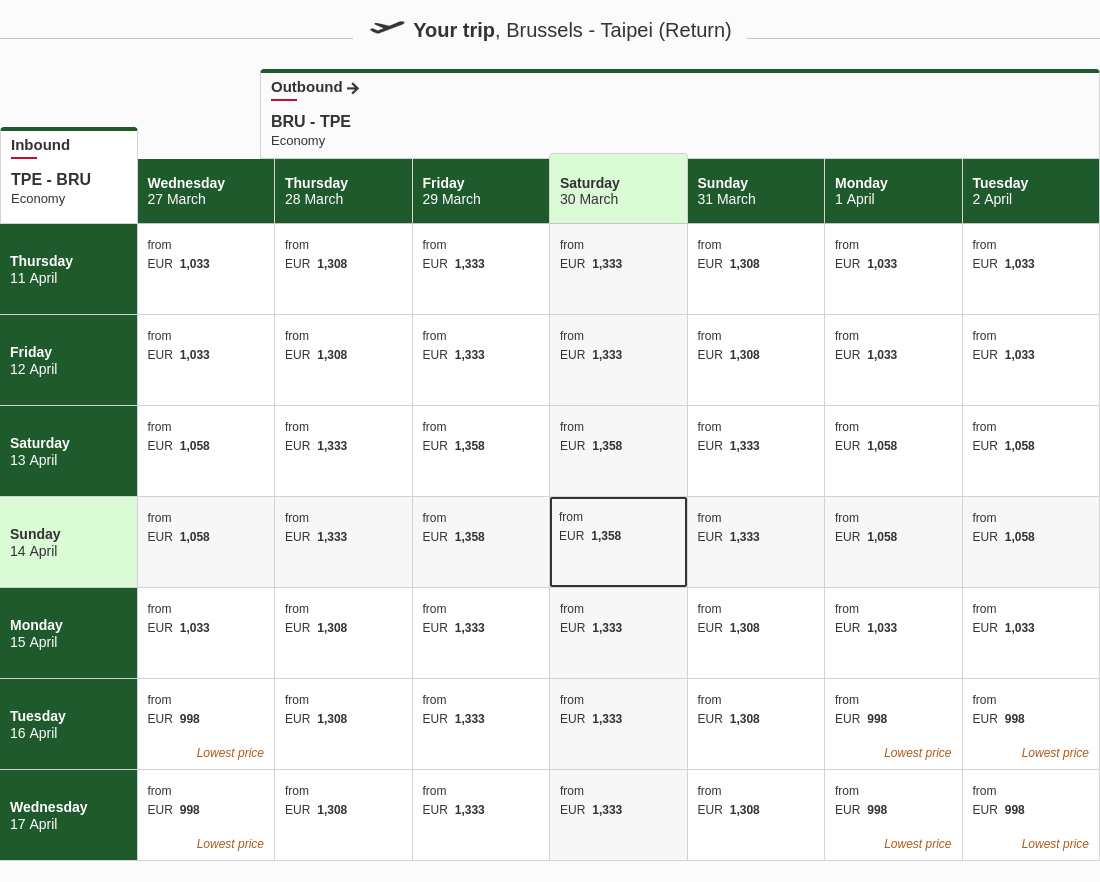
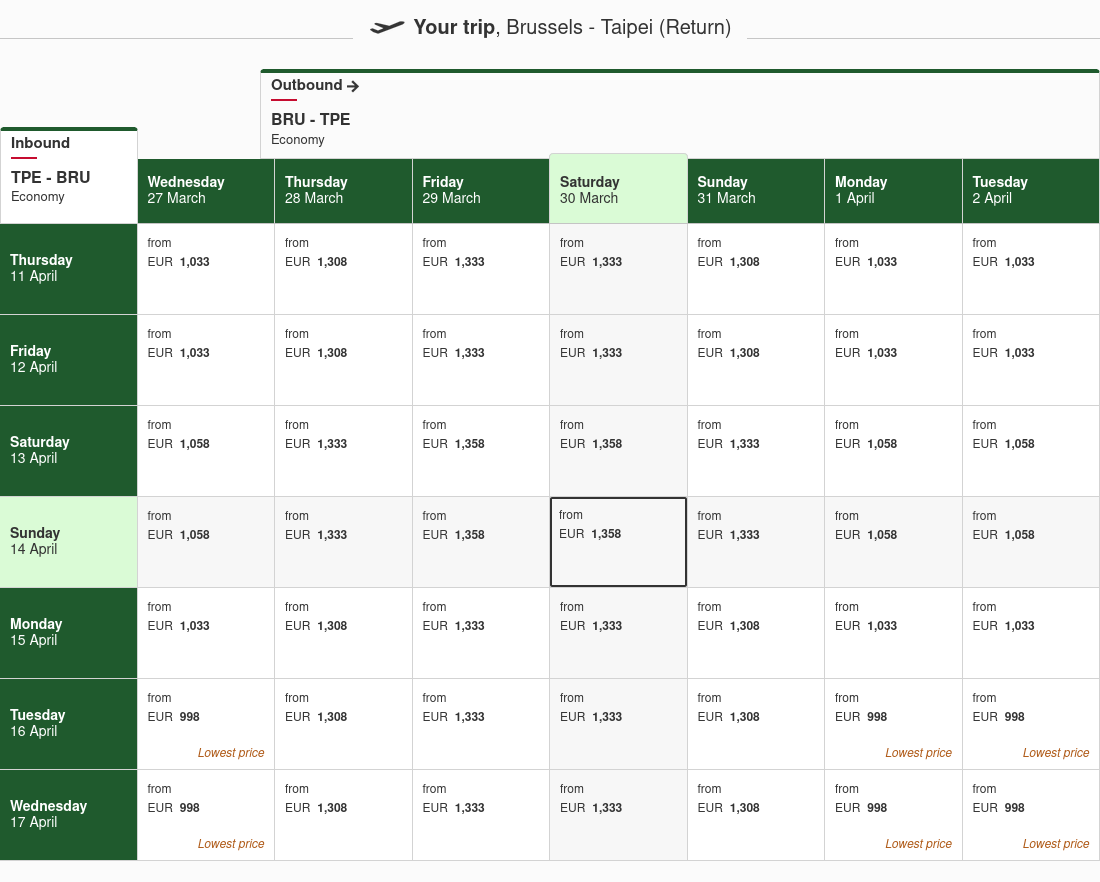
setting locale related stuff

diff --git a/playwright.config.ts b/playwright.config.ts
@@ -45,6 +45,8 @@ export default defineConfig({
       use: {
         ...devices['Desktop Firefox'],
         viewport: { width: 1920, height: 1080 },
+        locale: 'en-BE',
+        timezoneId: 'Europe/Brussels',
       },
     },
 

diff --git a/scrapes/taiwan/turkish-airlines.md b/scrapes/taiwan/turkish-airlines.md
@@ -2,13 +2,13 @@
 | --- | --- | --- | --- | --- | --- | --- | --- |
 | Previous | Return<br><br>11 Thursday April 2024 | Return<br><br>12 Friday April 2024 | Return<br><br>13 Saturday April 2024 | Return<br><br>14 Sunday April 2024 | Return<br><br>15 Monday April 2024 | Return<br><br>16 Tuesday April 2024 | Return<br><br>17 Wednesday April 2024 |
 | --- | --- | --- | --- | --- | --- | --- | --- |
-| Departure<br><br>27 Wednesday March 2024 | EUR1,231.62 | EUR1,231.62 | EUR1,298.62 | EUR1,231.62 | EUR1,089.62 | EUR1,089.62 | EUR1,089.62 |
-| Departure<br><br>28 Thursday March 2024 | EUR1,231.62 | EUR1,231.62 | EUR1,298.62 | EUR1,231.62 | EUR1,089.62 | EUR1,089.62 | EUR1,089.62 |
-| Departure<br><br>29 Friday March 2024 | EUR1,312.62 | EUR1,312.62 | EUR1,379.62 | EUR1,312.62 | EUR1,169.62 | EUR1,169.62 | EUR1,169.62 |
-| Departure<br><br>30 Saturday March 2024 | EUR1,231.62 | EUR1,231.62 | EUR1,298.62 | EUR1,231.62 | EUR1,089.62 | EUR1,089.62 | EUR1,089.62 |
-| Departure<br><br>31 Sunday March 2024 | EUR1,312.62 | EUR1,312.62 | EUR1,379.62 | EUR1,312.62 | EUR1,169.62 | EUR1,169.62 | EUR1,169.62 |
-| Departure<br><br>01 Monday April 2024 | EUR1,408.62 | EUR1,408.62 | EUR1,475.62 | EUR1,408.62 | EUR1,265.62 | EUR1,265.62 | EUR1,265.62 |
-| Departure<br><br>02 Tuesday April 2024 | EUR1,312.62 | EUR1,312.62 | EUR1,379.62 | EUR1,312.62 | EUR1,169.62 | EUR1,169.62 | EUR1,169.62 |
+| Departure<br><br>27 Wednesday March 2024 | EUR1 231,62 | EUR1 231,62 | EUR1 298,62 | EUR1 231,62 | EUR1 089,62 | EUR1 089,62 | EUR1 089,62 |
+| Departure<br><br>28 Thursday March 2024 | EUR1 231,62 | EUR1 231,62 | EUR1 298,62 | EUR1 231,62 | EUR1 089,62 | EUR1 089,62 | EUR1 089,62 |
+| Departure<br><br>29 Friday March 2024 | EUR1 312,62 | EUR1 312,62 | EUR1 379,62 | EUR1 312,62 | EUR1 169,62 | EUR1 169,62 | EUR1 169,62 |
+| Departure<br><br>30 Saturday March 2024 | EUR1 231,62 | EUR1 231,62 | EUR1 298,62 | EUR1 231,62 | EUR1 089,62 | EUR1 089,62 | EUR1 089,62 |
+| Departure<br><br>31 Sunday March 2024 | EUR1 312,62 | EUR1 312,62 | EUR1 379,62 | EUR1 312,62 | EUR1 169,62 | EUR1 169,62 | EUR1 169,62 |
+| Departure<br><br>01 Monday April 2024 | EUR1 408,62 | EUR1 408,62 | EUR1 475,62 | EUR1 408,62 | EUR1 265,62 | EUR1 265,62 | EUR1 265,62 |
+| Departure<br><br>02 Tuesday April 2024 | EUR1 312,62 | EUR1 312,62 | EUR1 379,62 | EUR1 312,62 | EUR1 169,62 | EUR1 169,62 | EUR1 169,62 |
 | Next |
 | Lowest fare — No flight or seat availability |     |     |     |     |     |     |     |
 
